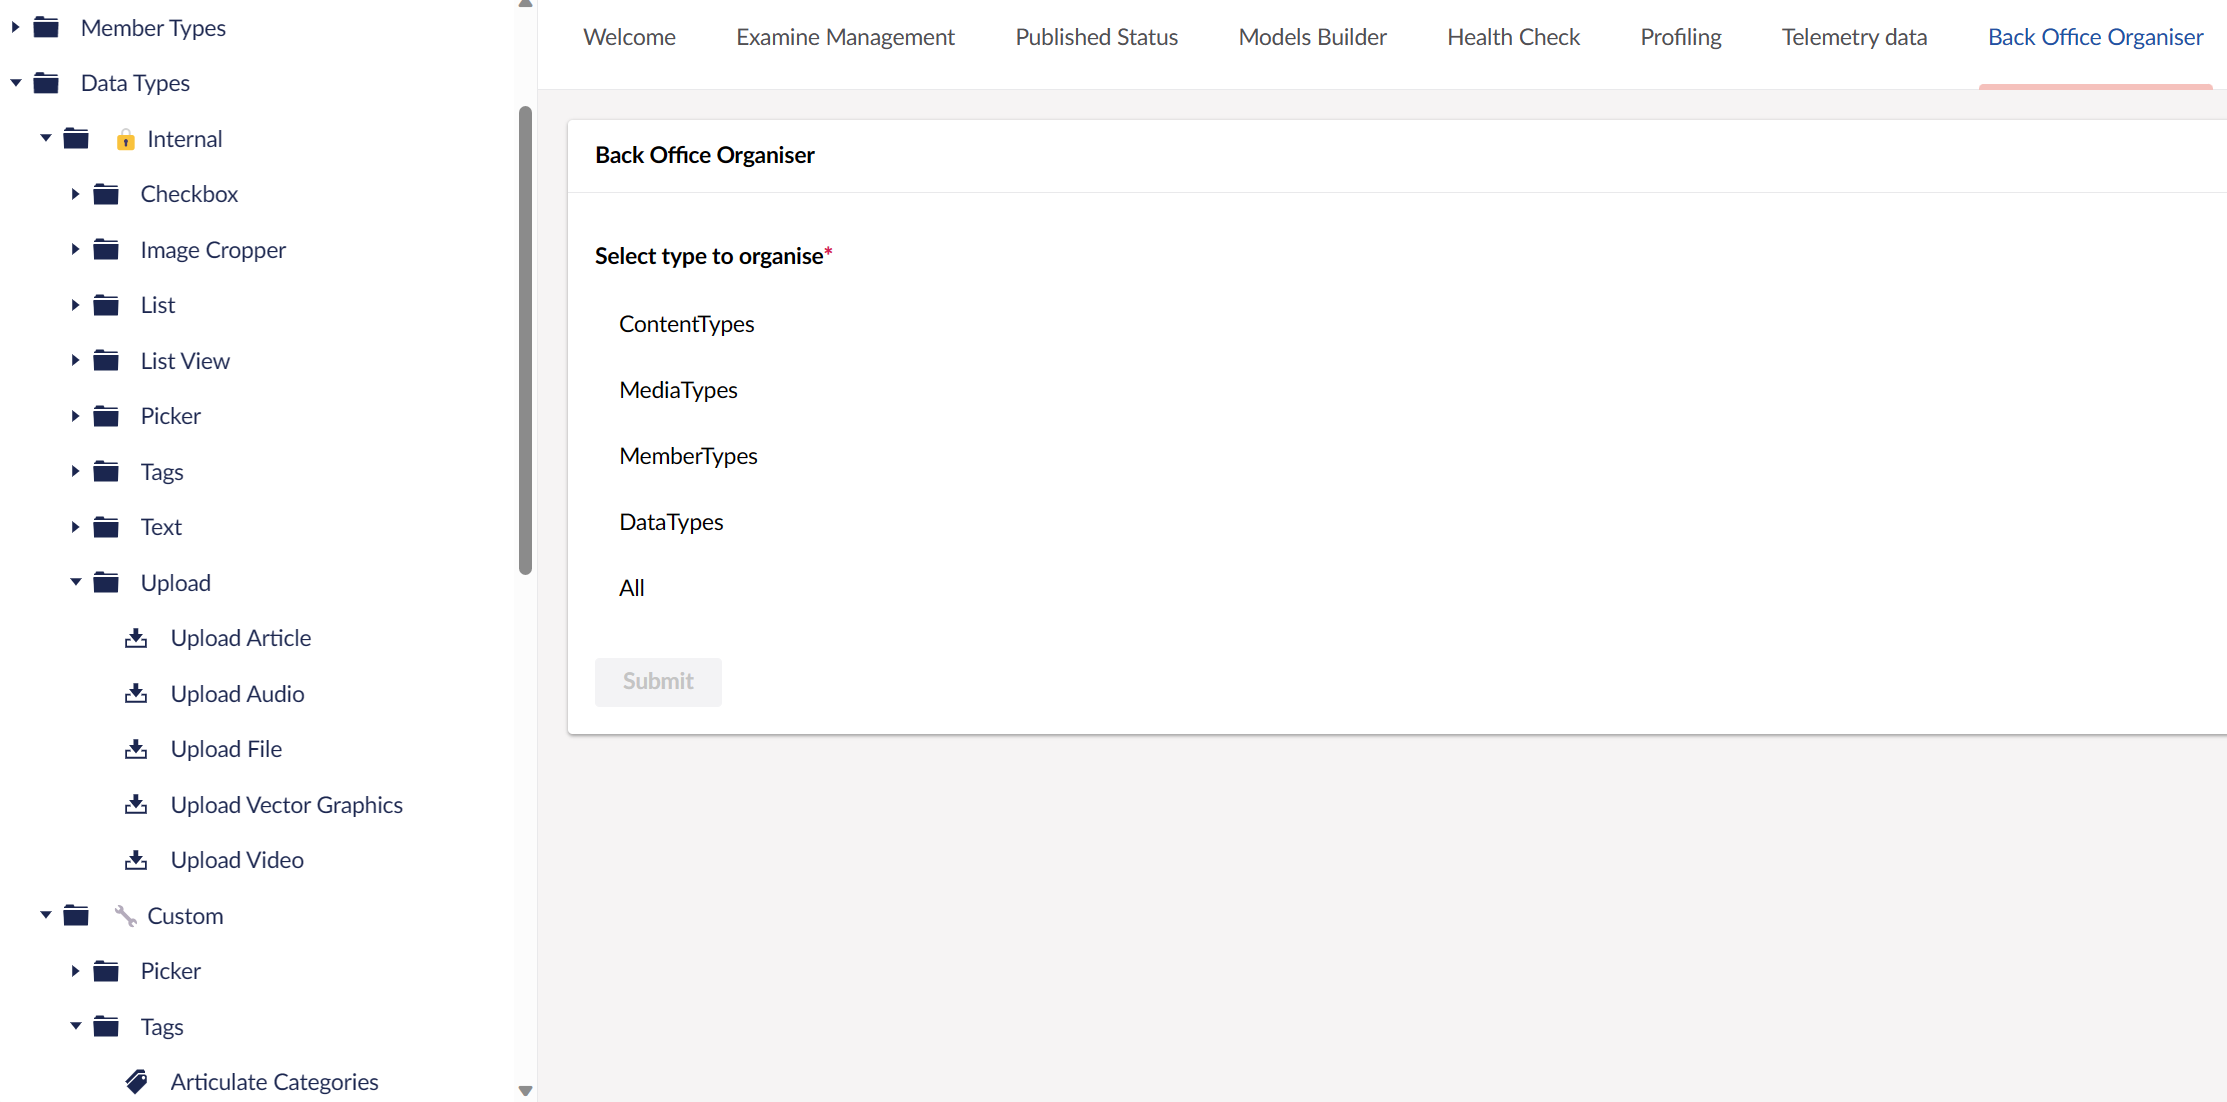
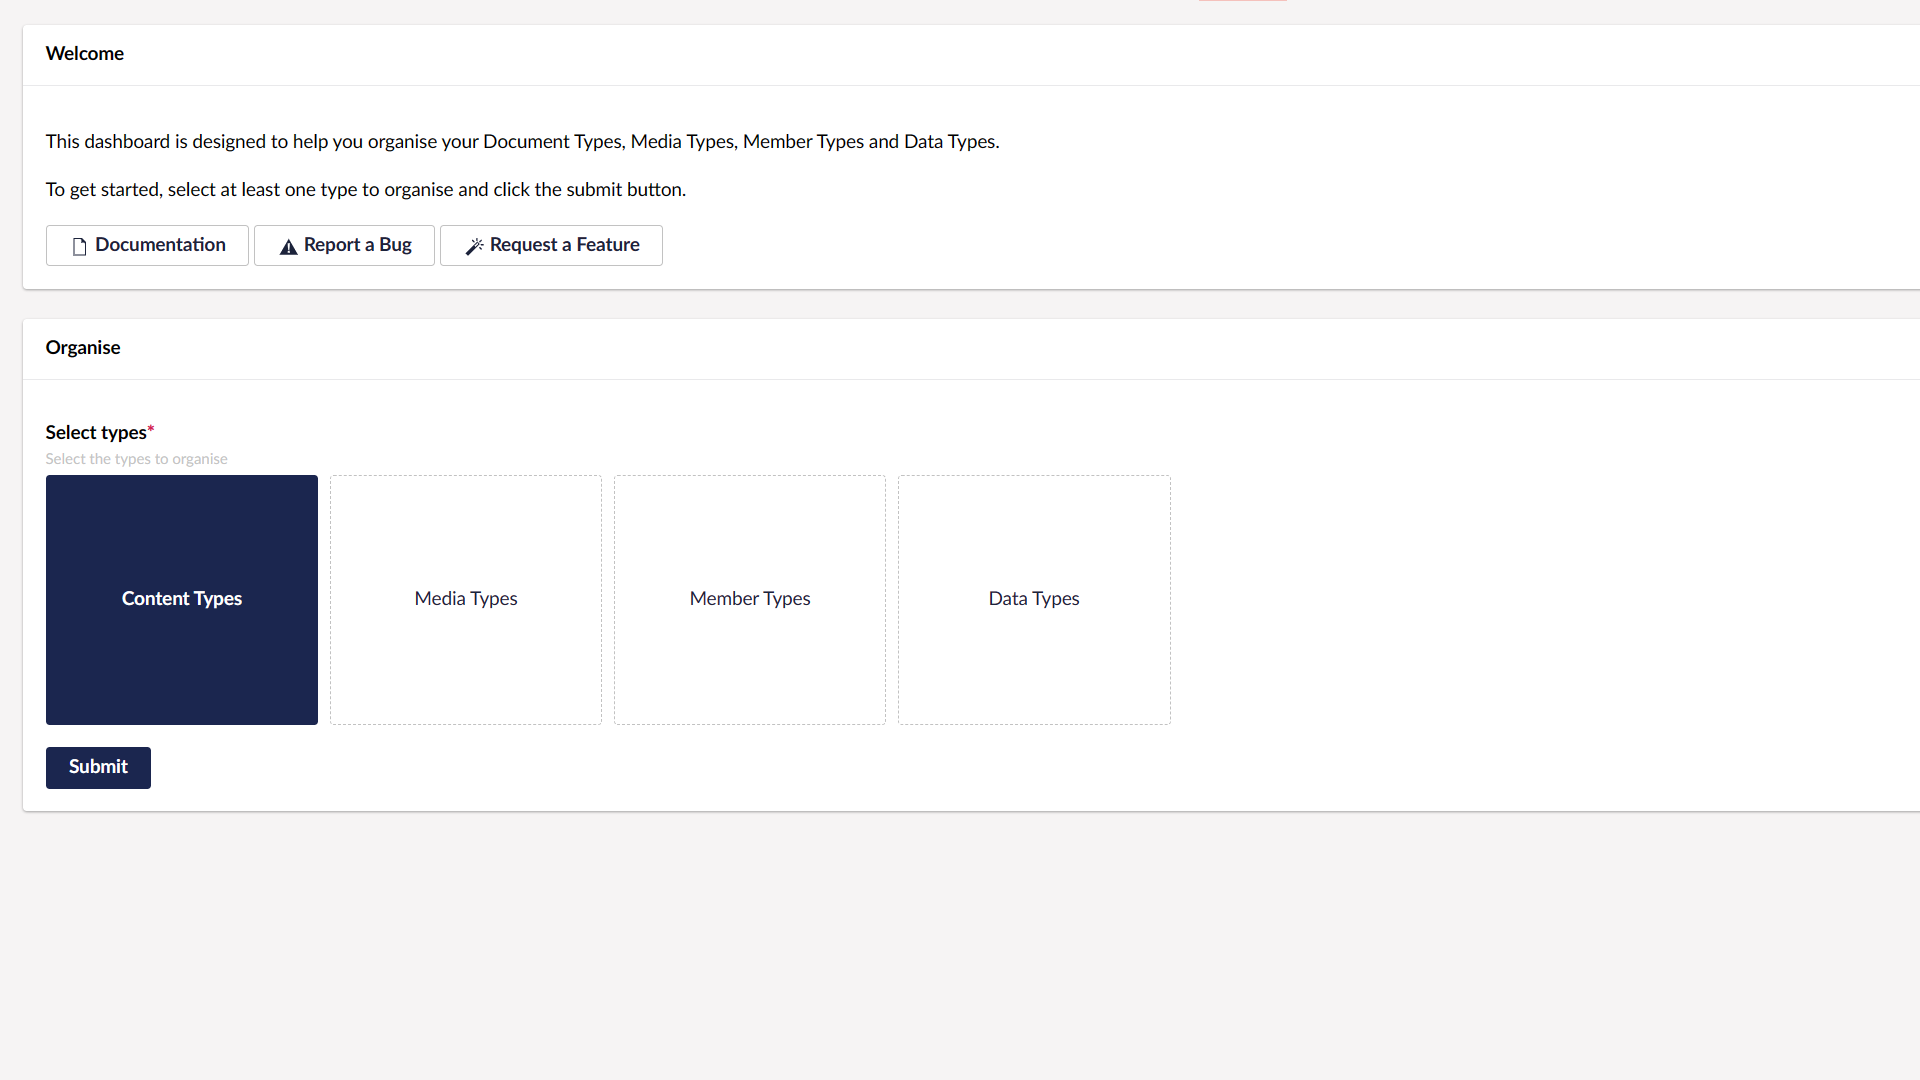
doc: improve screenshots

diff --git a/.github/README.md b/.github/README.md
@@ -8,20 +8,21 @@
 Is your Backoffice a bit untidy?
 
 - Single-click (and opinionated) organiser for
-    - Data Types
     - Document Types
     - Media Types
     - Member Types
+    - Data Types
 
-![A screenshot of the BackOffice Organiser in action](https://raw.githubusercontent.com/jcdcdev/Umbraco.Community.BackOfficeOrganiser/main/docs/screenshots/backoffice.png)
+![A screenshot of the Back Office Organiser in action](https://raw.githubusercontent.com/jcdcdev/Umbraco.Community.BackOfficeOrganiser/main/docs/screenshots/backoffice.png)
 
 ## Quick Start
 
 - Go to the backoffice
-- Click `Back Office Organiser`
+- Click `Settings`
+- Click `Organise`
 - Select the types you wish to organise
 - Click submit and confirm
-- Refresh your page and enjoy a cleaner backoffice 😀
+- Refresh your page and enjoy a cleaner backoffice ✨
 
 ## Configuration
 Add the following to your `appsettings.json` file
@@ -40,10 +41,10 @@ Add the following to your `appsettings.json` file
 
 You can implement your own `Organise Action`, a method that determines where a type should be moved to. Implement the following interfaces:
 
-- `Media Types` => `IMediaTypeOrganiseAction`
 - `Document Types` => `IContentTypeOrganiseAction`
-- `Data Types` => `IDataTypeOrganiseAction`
+- `Media Types` => `IMediaTypeOrganiseAction`
 - `Member Types` => `IMemberTypeOrganiseAction`
+- `Data Types` => `IDataTypeOrganiseAction`
 
 ### Example
 ```csharp
